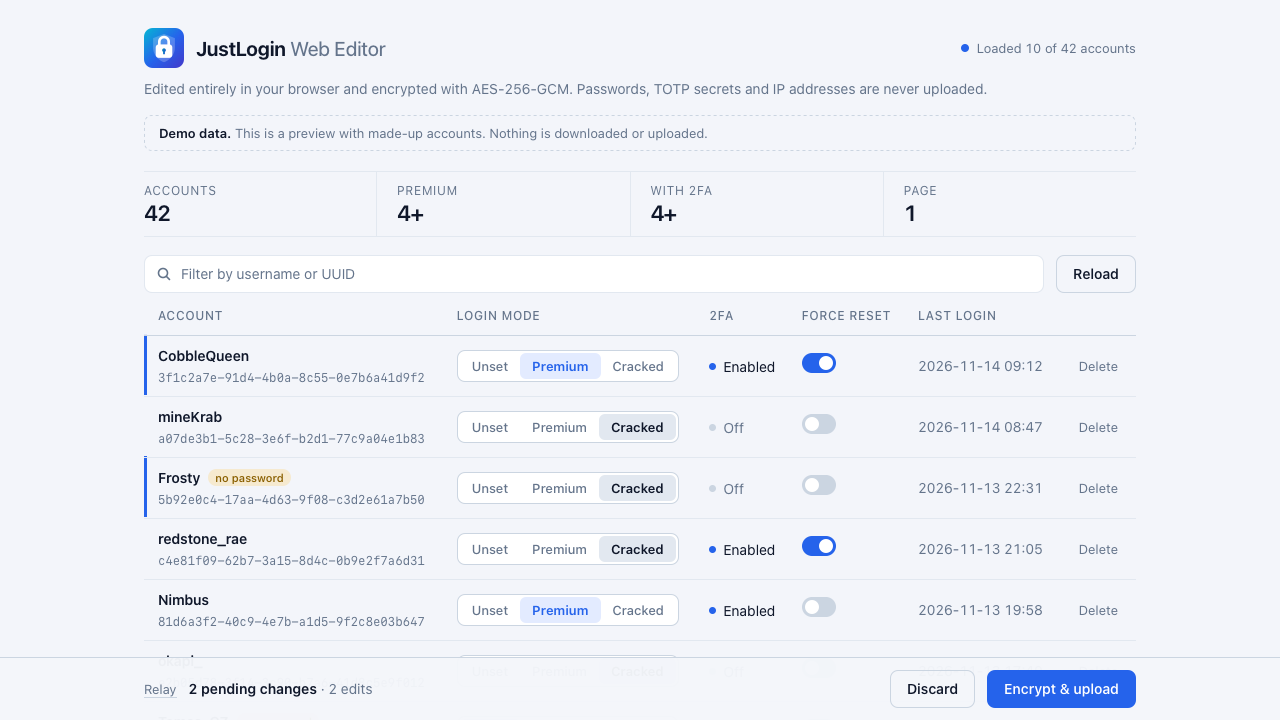
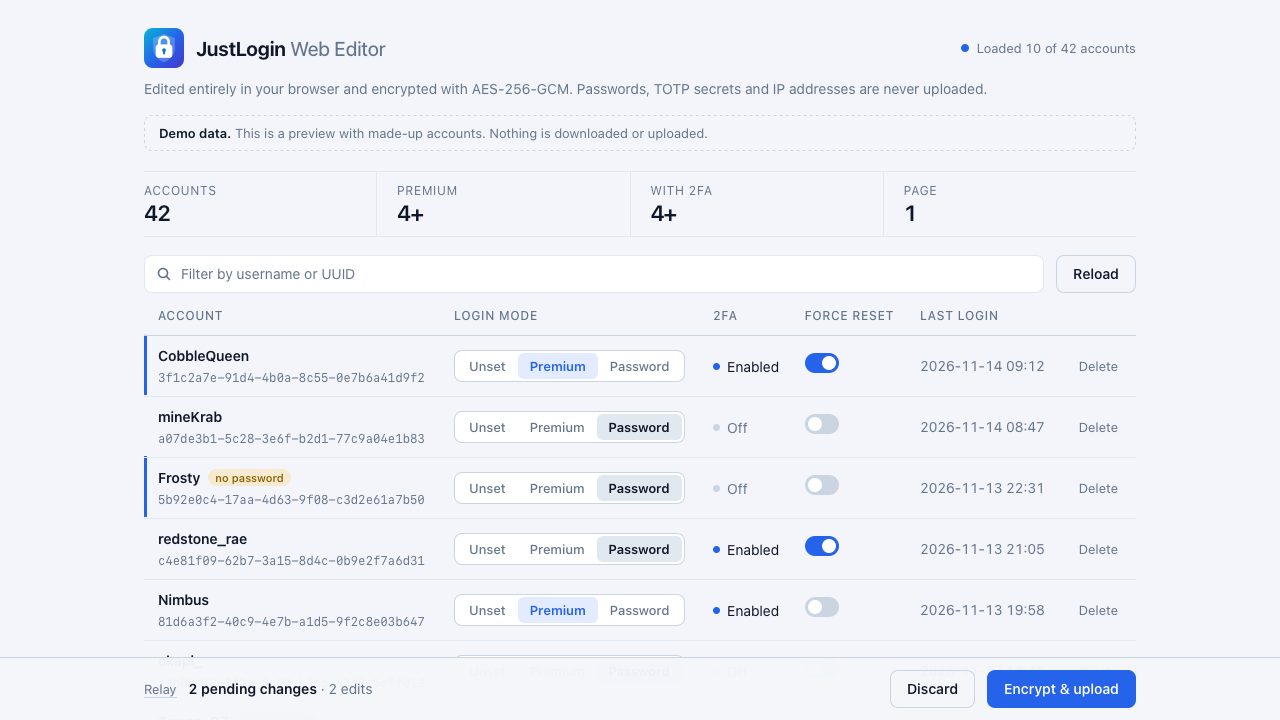
Rename /cracked to /unpremium, neutral wording, config v6
- Rename the switch-back-to-password command to /unpremium (log password
  redaction covers both names)
- Rename skins.restore-cracked-by-name to skins.restore-by-name with
  automatic migration (config-version 6) and fallback to the old key
- Neutral wording across README, docs, website, messages (en/cs/sk),
  config comments and gallery images
- Web editor login-mode label is now "Password"
- Add external connections section to the store description
- CHANGELOG: 1.0.1 entry

diff --git a/docs/index.html b/docs/index.html
@@ -5,7 +5,7 @@
   <meta name="viewport" content="width=device-width, initial-scale=1.0">
   <meta http-equiv="Content-Security-Policy" content="default-src 'none'; img-src 'self'; style-src 'unsafe-inline'; script-src 'unsafe-inline'; base-uri 'none'; form-action 'none';">
   <title>JustLogin · Authentication for Minecraft servers</title>
-  <meta name="description" content="Open-source cracked and premium login for Paper, Folia, Velocity and BungeeCord. Argon2id, 2FA, immutable UUIDs and an end-to-end encrypted web editor.">
+  <meta name="description" content="Open-source authentication for Paper, Folia, Velocity and BungeeCord. Argon2id, 2FA, immutable UUIDs and an end-to-end encrypted web editor.">
   <script>
     // Links generated by older plugin versions point at the site root (…/?code=…#key). Forward them to the editor.
     if (/[?&]code=/.test(location.search) && location.hash.length > 1) {
@@ -211,7 +211,7 @@
       <div>
         <span class="eyebrow"><i></i>Open source · MIT</span>
         <h1>Login for Minecraft servers that does its job and stays out of the way.</h1>
-        <p class="lead">Cracked and premium authentication for Paper, Folia, Velocity and BungeeCord. Players register and log in before they ever spawn, passwords are hashed with Argon2id, skins persist automatically, and every account keeps one UUID for good.</p>
+        <p class="lead">Modern authentication for Paper, Folia, Velocity and BungeeCord. Players register and log in before they ever spawn, passwords are hashed with Argon2id, skins persist automatically, and every account keeps one UUID for good.</p>
         <div class="cta">
           <a class="btn primary" href="https://modrinth.com/plugin/justlogin">Download on Modrinth</a>
           <a class="btn" href="https://hangar.papermc.io/filasik/justLogin">Hangar</a>
@@ -247,7 +247,7 @@
         </div>
         <div>
           <h3>Premium, UUIDs &amp; skins</h3>
-          <p>Mojang-verified players can use <code>/premium</code> on standalone Paper or behind a proxy and keep their exact server UUID. Cracked joins optionally restore matching Mojang skins, and players can switch anytime with <code>/skin &lt;player|reset&gt;</code>.</p>
+          <p>Mojang-verified players can use <code>/premium</code> on standalone Paper or behind a proxy and keep their exact server UUID. Password logins optionally restore matching Mojang skins, and players can switch anytime with <code>/skin &lt;player|reset&gt;</code>.</p>
         </div>
         <div>
           <h3>Argon2id hashing</h3>
@@ -356,7 +356,7 @@
   <span class="k">auto-detect-mojang:</span> false
 <span class="k">skins:</span>
   <span class="k">enabled:</span> true
-  <span class="k">restore-cracked-by-name:</span> true
+  <span class="k">restore-by-name:</span> true
 <span class="k">proxy:</span>
   <span class="k">enabled:</span> false          <span class="d"># true behind a proxy</span>
   <span class="k">shared-secret:</span> ""       <span class="d"># 16+ random characters</span>

diff --git a/docs/gallery/proxy-architecture.html b/docs/gallery/proxy-architecture.html
@@ -105,7 +105,7 @@
   <div class="flow">
     <div class="box">
       <div class="badge" style="background:rgba(148,163,184,0.2);color:#e2e8f0;">Minecraft Client</div>
-      <h3>Cracked, Mojang or Bedrock</h3>
+      <h3>Password, Mojang or Bedrock</h3>
       <ul>
         <li>• Java 1.21.7–26.x (Dialog UI)</li>
         <li>• Legacy &lt; 1.21.7 fallback</li>
@@ -133,7 +133,7 @@
       <ul>
         <li>• Verifies HMAC + timestamp + nonce</li>
         <li>• Auto-logins verified premium users</li>
-        <li>• Shows Dialog / 2FA modal for cracked accounts before world spawn</li>
+        <li>• Shows Dialog / 2FA modal for password accounts before world spawn</li>
       </ul>
     </div>
   </div>
@@ -141,7 +141,7 @@
   <div class="bottom-row">
     <div class="banner-note">
       <h4>Immutable Player Identity Across Switches</h4>
-      <p>Switching between <code>/premium</code> and <code>/cracked</code> or changing a Mojang username never breaks inventories, islands, or permissions — <code>game_uuid</code> stays fixed in MariaDB/SQLite.</p>
+      <p>Switching between <code>/premium</code> and <code>/unpremium</code> or changing a Mojang username never breaks inventories, islands, or permissions — <code>game_uuid</code> stays fixed in MariaDB/SQLite.</p>
     </div>
     <div class="banner-note">
       <h4>Encrypted Web Editor &amp; Importers</h4>

diff --git a/docs/editor/index.html b/docs/editor/index.html
@@ -139,7 +139,7 @@
     .seg button { height: 26px; padding: 0 12px; border: 0; border-radius: 6px; background: transparent; color: var(--muted); font-size: 13px; font-weight: 500; }
     .seg button:hover { color: var(--ink); }
     .seg button[aria-checked="true"] { background: var(--accent-soft); color: var(--accent); font-weight: 600; }
-    .seg button.cracked[aria-checked="true"] { background: var(--line); color: var(--ink); }
+    .seg button.pwlogin[aria-checked="true"] { background: var(--line); color: var(--ink); }
 
     .state { display: inline-flex; align-items: center; gap: 7px; color: var(--muted); }
     .state.on { color: var(--ink); }
@@ -482,7 +482,7 @@
       const seg = el('div', 'seg');
       seg.setAttribute('role', 'radiogroup');
       seg.setAttribute('aria-label', `Login mode for ${acc.name}`);
-      const options = [['null', 'Unset', ''], ['true', 'Premium', 'premium'], ['false', 'Cracked', 'cracked']];
+      const options = [['null', 'Unset', ''], ['true', 'Premium', 'premium'], ['false', 'Password', 'pwlogin']];
       const buttons = options.map(([v, label, cls]) => {
         const b = el('button', cls, label);
         b.type = 'button';

diff --git a/editor/src/main/resources/web-editor/index.html b/editor/src/main/resources/web-editor/index.html
@@ -139,7 +139,7 @@
     .seg button { height: 26px; padding: 0 12px; border: 0; border-radius: 6px; background: transparent; color: var(--muted); font-size: 13px; font-weight: 500; }
     .seg button:hover { color: var(--ink); }
     .seg button[aria-checked="true"] { background: var(--accent-soft); color: var(--accent); font-weight: 600; }
-    .seg button.cracked[aria-checked="true"] { background: var(--line); color: var(--ink); }
+    .seg button.pwlogin[aria-checked="true"] { background: var(--line); color: var(--ink); }
 
     .state { display: inline-flex; align-items: center; gap: 7px; color: var(--muted); }
     .state.on { color: var(--ink); }
@@ -482,7 +482,7 @@
       const seg = el('div', 'seg');
       seg.setAttribute('role', 'radiogroup');
       seg.setAttribute('aria-label', `Login mode for ${acc.name}`);
-      const options = [['null', 'Unset', ''], ['true', 'Premium', 'premium'], ['false', 'Cracked', 'cracked']];
+      const options = [['null', 'Unset', ''], ['true', 'Premium', 'premium'], ['false', 'Password', 'pwlogin']];
       const buttons = options.map(([v, label, cls]) => {
         const b = el('button', cls, label);
         b.type = 'button';

diff --git a/paper/src/test/java/me/skerik/justlogin/paper/ConfigUpdaterTest.java b/paper/src/test/java/me/skerik/justlogin/paper/ConfigUpdaterTest.java
@@ -63,6 +63,18 @@ final class ConfigUpdaterTest {
     }
 
     @Test
+    void migrateKeepsAdminValueWhenSkinRestoreOptionIsRenamed() {
+        YamlConfiguration user = new YamlConfiguration();
+        user.set("config-version", 5);
+        user.set("skins.restore-cracked-by-name", false);
+
+        int moved = ConfigUpdater.migrate(user, ConfigUpdater.RENAMES);
+        assertEquals(1, moved);
+        assertFalse(user.getBoolean("skins.restore-by-name"), "admin's value must be preserved");
+        assertFalse(user.contains("skins.restore-cracked-by-name"));
+    }
+
+    @Test
     void mergeUpgradesV2ConfigToV3WithEmailCaptchaBedrockAndLocalEditor() throws Exception {
         YamlConfiguration defaults = new YamlConfiguration();
         try (var in = getClass().getResourceAsStream("/config.yml")) {
@@ -76,7 +88,7 @@ final class ConfigUpdaterTest {
 
         int added = ConfigUpdater.merge(v2, defaults);
         assertTrue(added > 5);
-        assertEquals(5, v2.getInt("config-version"));
+        assertEquals(6, v2.getInt("config-version"));
         assertEquals("sk", v2.getString("locale"));
         assertFalse(v2.getBoolean("premium.standalone-enabled"));
         assertTrue(v2.getBoolean("login.dialog-single-password"));
@@ -85,7 +97,7 @@ final class ConfigUpdaterTest {
         assertFalse(v2.getBoolean("email.enabled"));
         assertFalse(v2.getBoolean("editor.local-http.enabled"));
         assertTrue(v2.getBoolean("skins.enabled"));
-        assertTrue(v2.getBoolean("skins.restore-cracked-by-name"));
+        assertTrue(v2.getBoolean("skins.restore-by-name"));
         assertTrue(v2.getBoolean("skins.command-enabled"));
         assertEquals(60, v2.getInt("skins.cooldown-seconds"));
     }

diff --git a/paper/src/main/java/me/skerik/justlogin/paper/config/Settings.java b/paper/src/main/java/me/skerik/justlogin/paper/config/Settings.java
@@ -230,7 +230,8 @@ public record Settings(
                 ? cfg.getLong("premium.mojang-cache-seconds", 300L)
                 : cfg.getLong("proxy.mojang-cache-seconds", 300L));
         boolean skinsEnabled = cfg.getBoolean("skins.enabled", true);
-        boolean skinsRestoreCracked = cfg.getBoolean("skins.restore-cracked-by-name", true);
+        boolean skinsRestoreByName = cfg.getBoolean("skins.restore-by-name",
+                cfg.getBoolean("skins.restore-cracked-by-name", true));
         boolean skinsCommandEnabled = cfg.getBoolean("skins.command-enabled", true);
         long skinCooldownSeconds = Math.max(0L, cfg.getLong("skins.cooldown-seconds", 60L));
         long skinsCacheSeconds = Math.max(10L, cfg.getLong("skins.cache-seconds", 600L));
@@ -318,7 +319,7 @@ public record Settings(
                 maxAccountsPerIp,
                 auditRetentionDays,
                 skinsEnabled,
-                skinsRestoreCracked,
+                skinsRestoreByName,
                 skinsCacheSeconds
         );
 
@@ -339,8 +340,8 @@ public record Settings(
         return core.skinsEnabled();
     }
 
-    public boolean skinsRestoreCrackedByName() {
-        return core.skinsRestoreCrackedByName();
+    public boolean skinsRestoreByName() {
+        return core.skinsRestoreByName();
     }
 
     public long skinsCacheSeconds() {

diff --git a/core/src/main/java/me/skerik/justlogin/core/service/ProxyAuthService.java b/core/src/main/java/me/skerik/justlogin/core/service/ProxyAuthService.java
@@ -190,7 +190,7 @@ public final class ProxyAuthService {
                 }
                 if (acc.premiumPending()) {
                     long now = clock.getAsLong();
-                    // Single-shot consume + automatic rollback in DB BEFORE encryption challenge so failed/cracked joins never soft-lock
+                    // Single-shot consume + automatic rollback in DB BEFORE encryption challenge so failed joins never soft-lock
                     return accounts.setPremiumPending(acc.id(), false, now).thenApply(v -> {
                         armedPendingByName.put(nameLower, new ArmedPending(acc, now + 30_000L));
                         return new PreLoginDecision(PreLoginAction.FORCE_ONLINE, acc);
@@ -253,7 +253,7 @@ public final class ProxyAuthService {
                 if (acc.isPremiumConfirmed()) {
                     return JoinResolution.deny(DenyReason.PREMIUM_REQUIRED);
                 }
-                // Preserve immutable game_uuid across /premium -> /cracked switches
+                // Preserve immutable game_uuid across /premium -> /unpremium switches
                 return JoinResolution.offline(acc.gameUuid(), acc.id()).withCustomSkin(acc);
             });
         }

diff --git a/paper/src/test/java/me/skerik/justlogin/paper/SettingsTest.java b/paper/src/test/java/me/skerik/justlogin/paper/SettingsTest.java
@@ -35,9 +35,22 @@ final class SettingsTest {
         assertEquals(8, s.core().minPasswordLength());
         assertEquals(19456, s.core().argon2MemoryKib());
         assertTrue(s.skinsEnabled());
-        assertTrue(s.skinsRestoreCrackedByName());
+        assertTrue(s.skinsRestoreByName());
         assertTrue(s.skinsCommandEnabled());
         assertEquals(60L, s.skinCooldownSeconds());
         assertEquals(600L, s.skinsCacheSeconds());
+    }
+
+    @Test
+    void skinRestoreOptionFallsBackToLegacyKeyWhenNewKeyIsMissing() throws Exception {
+        YamlConfiguration cfg = new YamlConfiguration();
+        try (var in = getClass().getResourceAsStream("/config.yml")) {
+            cfg.load(new InputStreamReader(in, StandardCharsets.UTF_8));
+        }
+        cfg.set("skins.restore-by-name", null);
+        cfg.set("skins.restore-cracked-by-name", false);
+
+        Settings s = Settings.load(cfg, Path.of("/tmp/justlogin-test"));
+        assertFalse(s.skinsRestoreByName(), "admin's old value must be honoured when only the legacy key exists");
     }
 }

diff --git a/velocity/src/main/java/me/skerik/justlogin/velocity/JustLoginVelocity.java b/velocity/src/main/java/me/skerik/justlogin/velocity/JustLoginVelocity.java
@@ -58,7 +58,7 @@ import org.bstats.velocity.Metrics;
 import org.jspecify.annotations.Nullable;
 import org.slf4j.Logger;
 
-/** Velocity proxy entrypoint for JustLogin (online/cracked negotiation, immutable {@code game_uuid}, signed forwarding). */
+/** Velocity proxy entrypoint for JustLogin (Mojang online/password negotiation, immutable {@code game_uuid}, signed forwarding). */
 public final class JustLoginVelocity {
 
     private static final String REPO = "https://github.com/filasik/justLogin";
@@ -269,7 +269,7 @@ public final class JustLoginVelocity {
             }
             MojangSkinClient skins = this.skinClient;
             if (!res.onlineAuthenticated()
-                    && cfg.core().skinsRestoreCrackedByName()
+                    && cfg.core().skinsRestoreByName()
                     && !hasTextures(profile)
                     && !(cfg.floodgateFallback() && isFloodgate(originalUuid))
                     && skins != null) {

diff --git a/velocity/src/main/java/me/skerik/justlogin/velocity/VelocityConfig.java b/velocity/src/main/java/me/skerik/justlogin/velocity/VelocityConfig.java
@@ -130,7 +130,8 @@ public record VelocityConfig(
         }
 
         boolean skinsEnabled = root.node("skins", "enabled").getBoolean(true);
-        boolean skinsRestoreCracked = root.node("skins", "restore-cracked-by-name").getBoolean(true);
+        boolean skinsRestoreByName = root.node("skins", "restore-by-name")
+                .getBoolean(root.node("skins", "restore-cracked-by-name").getBoolean(true));
         long skinsCacheSec = Math.max(10L, root.node("skins", "cache-seconds").getLong(600L));
 
         CoreSettings core = new CoreSettings(
@@ -144,7 +145,7 @@ public record VelocityConfig(
                 d.totpIssuer(), d.totpWindowSteps(),
                 autoDetect, cacheSec,
                 d.maxAccountsPerIp(), d.auditRetentionDays(),
-                skinsEnabled, skinsRestoreCracked, skinsCacheSec
+                skinsEnabled, skinsRestoreByName, skinsCacheSec
         );
 
         String invalidMsg = resolveMessage(

diff --git a/paper/src/main/java/me/skerik/justlogin/paper/command/AuthCommands.java b/paper/src/main/java/me/skerik/justlogin/paper/command/AuthCommands.java
@@ -186,7 +186,7 @@ public final class AuthCommands {
                 List.of());
 
         commands.register(
-                Commands.literal("cracked")
+                Commands.literal("unpremium")
                         .requires(s -> !(s.getSender() instanceof Player) || s.getSender().hasPermission("justlogin.premium"))
                         .executes(c -> handleCracked(c, null))
                         .then(Commands.argument("password", StringArgumentType.greedyString())
@@ -198,7 +198,7 @@ public final class AuthCommands {
                                 })
                                 .executes(c -> handleCracked(c, StringArgumentType.getString(c, "password"))))
                         .build(),
-                "Switch back to offline password authentication",
+                "Switch back to password authentication",
                 List.of());
 
         commands.register(

diff --git a/core/src/test/java/me/skerik/justlogin/core/service/AuthServiceAndImporterTest.java b/core/src/test/java/me/skerik/justlogin/core/service/AuthServiceAndImporterTest.java
@@ -224,7 +224,7 @@ class AuthServiceAndImporterTest {
             // Repeat /premium on already-confirmed account returns ALREADY_PREMIUM
             assertEquals(AuthService.Status.ALREADY_PREMIUM, auth.requestPremium("PremPlayer", "PremPlayer").join().status());
 
-            // Switching back to /cracked disables premium & preserves original gameUuid
+            // Switching back to /unpremium disables premium & preserves original gameUuid
             assertEquals(AuthService.Status.SUCCESS, auth.setCracked("PremPlayer", "PremPlayer").join().status());
             Account crackedAgain = accounts.findByNameLower("premplayer").join().orElseThrow();
             assertFalse(crackedAgain.isPremiumConfirmed());
